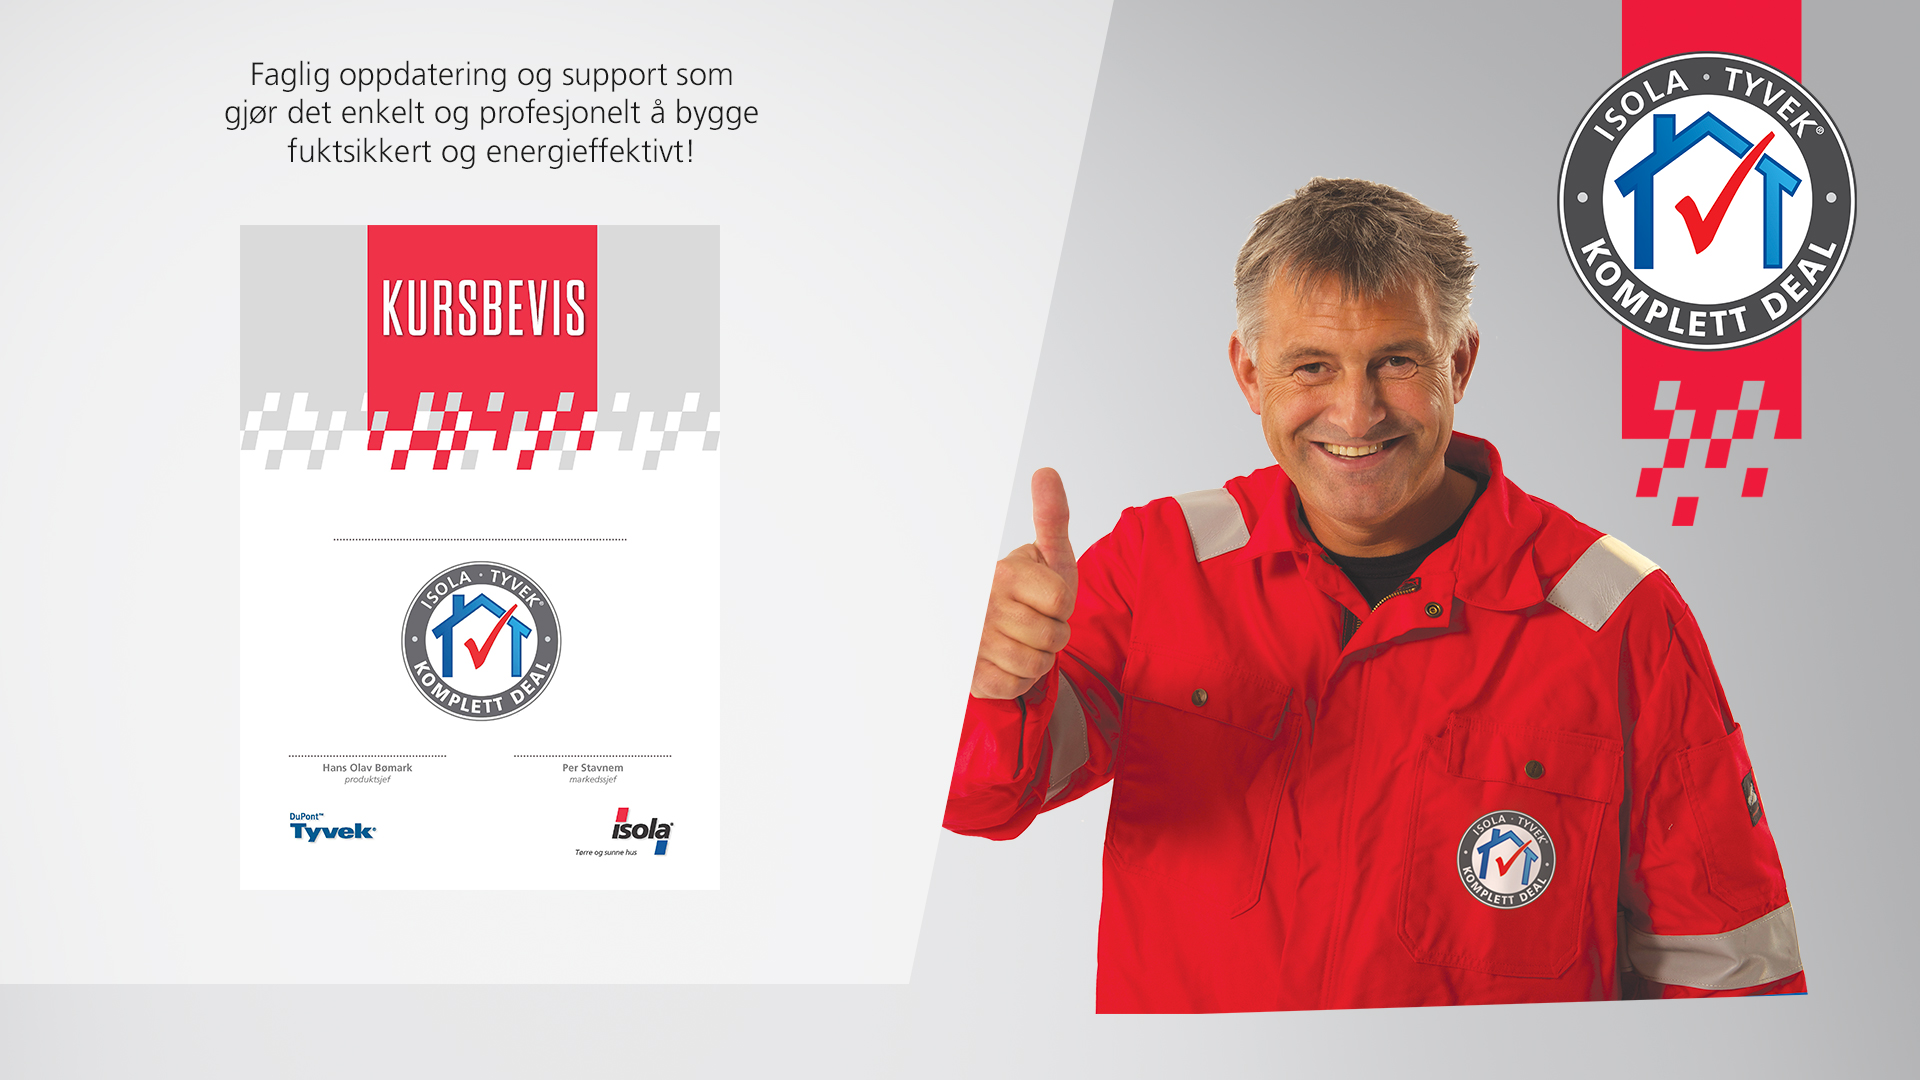
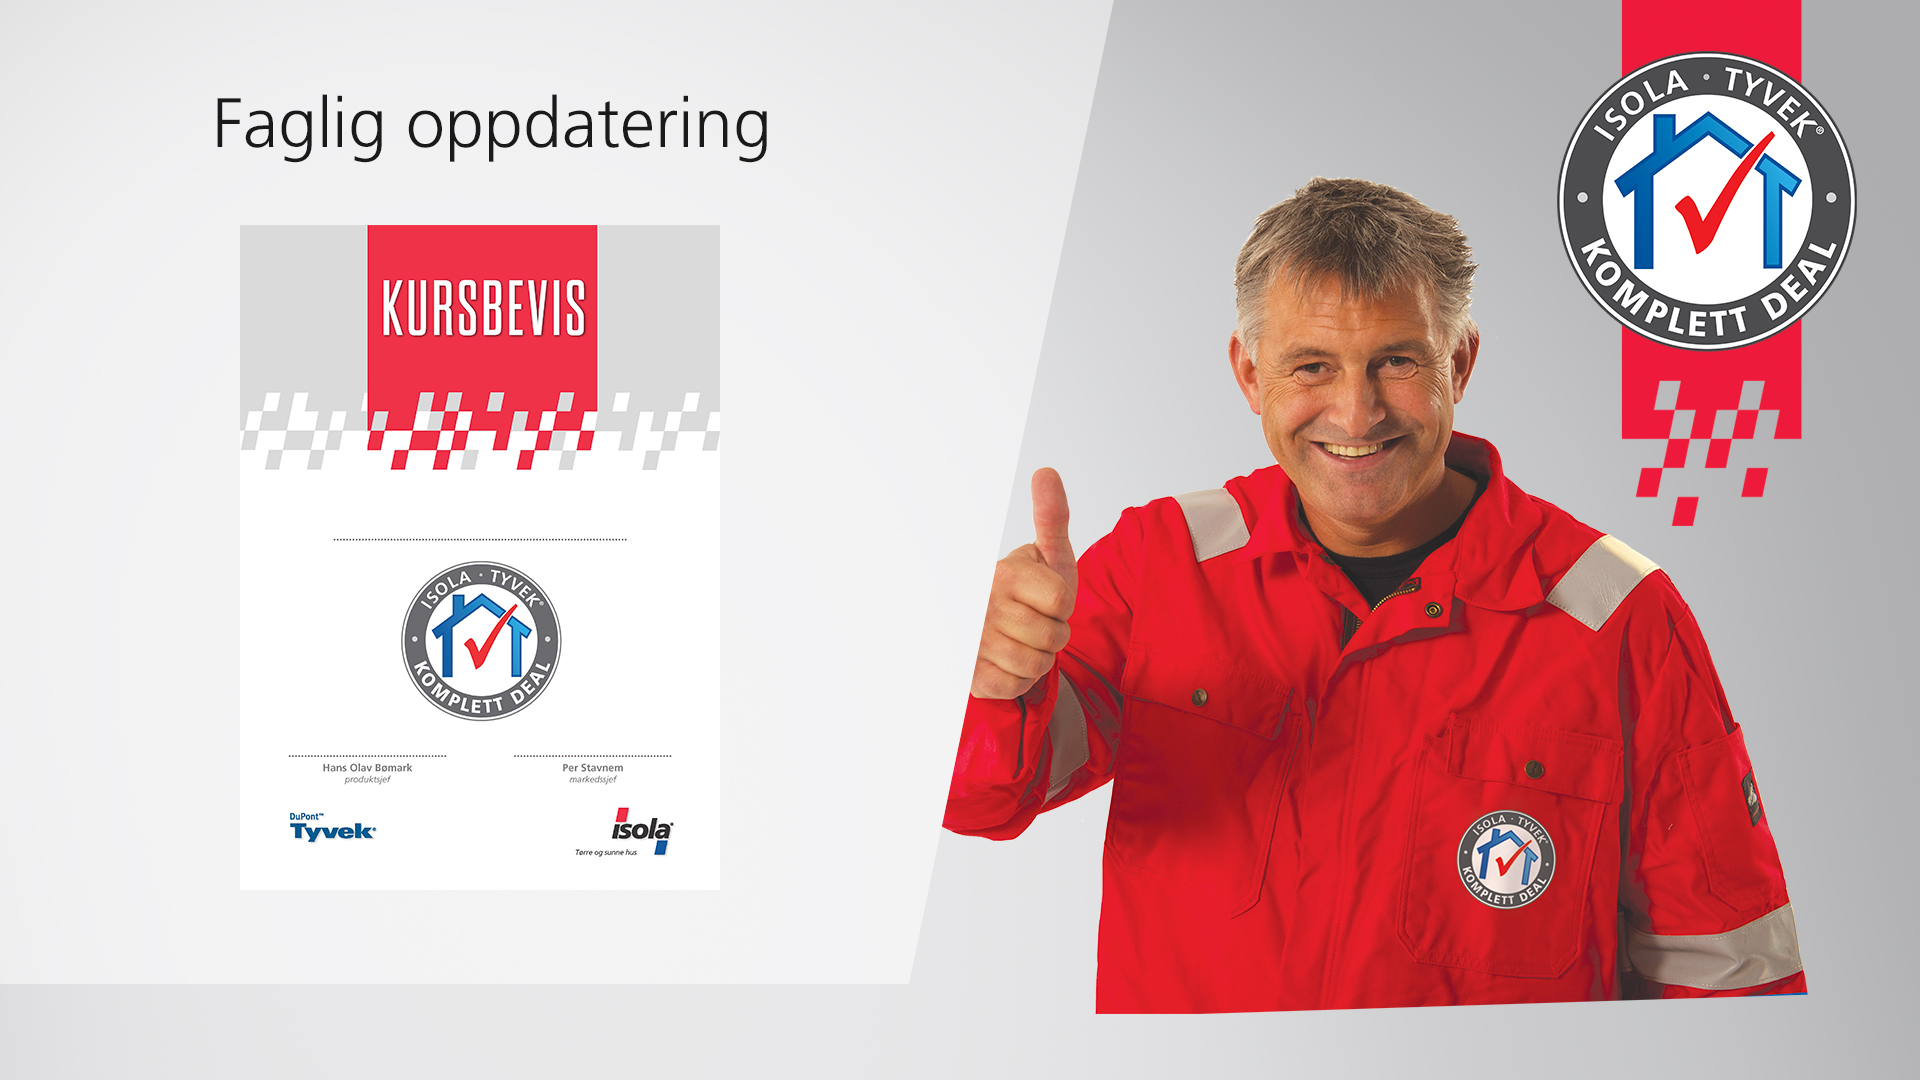
Diverse korrekturer Hans

Changed region(s): [[0.0938, 0.0611, 0.4062, 0.1528]]

diff --git a/presentation/nyheter.jsx b/presentation/nyheter.jsx
@@ -19,13 +19,14 @@ const images = {
     shingel: require("./nyheter/Shingel_1.jpg"),
     gronnetak: require("./nyheter/Gronnetak_1.jpg"),
     dampsperrer: require("./nyheter/Dampsperrer_1.jpg"),
+    takbelegg: require("./nyheter/Takbelegg_1.jpg"),
     rorosvinduet: require("./nyheter/Rorosvinduet_1.jpg"),
     zink: require("./nyheter/Zink_1.jpg"),
     tape: require("./nyheter/tape_1.jpg")
 };
 
  
-preloader([images.isod, images.kilrenne ,images.komplettdeal, images.softxtra, images.systemgodkjennig, images.gronnetak, images.dampsperrer, images.rorosvinduet, images.zink, images.tape]);
+preloader([images.isod, images.kilrenne ,images.komplettdeal, images.softxtra, images.systemgodkjennig, images.gronnetak, images.dampsperrer, images.rorosvinduet, images.takbelegg, images.zink, images.tape]);
 
 
    class News extends React.Component {
@@ -59,17 +60,18 @@ preloader([images.isod, images.kilrenne ,images.komplettdeal, images.softxtra, i
                       updatedSlide={this.updatedSlide.bind(this)}                      
 		                  transitionDuration={1000}>
 
-			              <Slide bgImage={images.isod } tickerText="Nytt underlagsbelegg med selvklebende omlegg" />
-			              <Slide bgImage={images.kilrenne } tickerText="Komplett system som forenkler håndverkers hverdag" />
-			              <Slide bgImage={images.komplettdeal } tickerText="Nytt og lønnsomt Isola-Tyvek proffkonsept" />
-			              <Slide bgImage={images.tape } tickerText="Ny klebesterk og fleksibel vindsperre tape til forsegling av detaljer" />
-			              <Slide bgImage={images.softxtra } tickerText="Ny generasjon vindsperre - xtra sterk - xtra monterinsvennlig" />
-			              <Slide bgImage={images.systemgodkjennig } tickerText="Først i landet med SINTEF Byggforsk systemgodkjenning" />
-			              <Slide bgImage={images.zink } tickerText="Monteringvennlig og komplett sortiment" />
-			              <Slide bgImage={images.shingel } tickerText="30 års garanti på produktet" />
-			              <Slide bgImage={images.gronnetak } tickerText="For fremtidens bymiljø" />
-			              <Slide bgImage={images.dampsperrer } tickerText="Smarte løsninger" />
-			              <Slide bgImage={images.rorosvinduet } tickerText="Nye aluminiumsbeklede vinduer fra Røros" />
+				      <Slide bgImage={images.isod } tickerText="Nytt underlagsbelegg med selvklebende omlegg - for skråtak ned til 6 graders takfall" />
+				      <Slide bgImage={images.kilrenne } tickerText="Komplett løsning for alle typer lektede skråtak - Effektivt system som forenkler proffens hverdag" />
+				      <Slide bgImage={images.komplettdeal } tickerText="Isola tilbyr nytt proffkonsept med komplette løsninger - Gir garantert tett og fuktsikkert bygg" />
+				      <Slide bgImage={images.softxtra } tickerText="Ny generasjon Soft vindsperre - Xtra sterk, Xtra fuktsikker og Xtra monterinsvennlig" />
+				      <Slide bgImage={images.systemgodkjennig } tickerText="Isola er først ute med SINTEF Byggforsk Teknisk Godkjenning av et komplett klimasystem" />
+				      <Slide bgImage={images.zink } tickerText="Isola styrker seg på takrenner og lanserer monteringvennlig og komplett zink-sortiment" />
+				      <Slide bgImage={images.tape } tickerText="Ny klebesterk og fleksibel vindsperre tape - Til forsegling av vindsperrer mot gjennomføringer og detaljer" />
+				      <Slide bgImage={images.takbelegg } tickerText="Asfalt takbelegg og membraner, produsert i Norge for norske værforhold" />
+				      <Slide bgImage={images.shingel } tickerText="30 års garanti på Isola Takshingel med ny og forbedret asfalt kvalitet" />
+				      <Slide bgImage={images.gronnetak } tickerText="Effektive løsninger som beskytter, drenerer og fordrøyer større mengder regnvann" />
+				      <Slide bgImage={images.dampsperrer } tickerText="Dampsperre med variabel vanndampmotstand - Sikkerhetsventil ved innestengt fukt" />
+				      <Slide bgImage={images.rorosvinduet } tickerText="Nye aluminiumsbekledde vinduer fra Røros - Moderne, solide og vedlikeholdsvennlige" />
 
                 </Deck>
             </div>

diff --git a/presentation/systemgodkjenning.jsx b/presentation/systemgodkjenning.jsx
@@ -17,10 +17,11 @@ const images = {
     rims: require("./systemgodkjenning/Systemgodkjenning_2_5_rims.jpg"),
     soft: require("./systemgodkjenning/Systemgodkjenning_2_6_1_soft.jpg"),
     vindu: require("./systemgodkjenning/Systemgodkjenning_2_7_vindu.jpg"),
-    tape: require("./systemgodkjenning/Systemgodkjenning_2_5_tape.jpg")
+    tape: require("./systemgodkjenning/Systemgodkjenning_2_5_tape.jpg"),
+    undertak: require("./systemgodkjenning/Systemgodkjenning_2_8_undertak.jpg")
 };
 
-preloader([images.svillemembran, images.flexwrap, images.takmansjett, images.rims, images.soft, images.tape, images.vindu]);
+preloader([images.svillemembran, images.flexwrap, images.takmansjett, images.rims, images.soft, images.tape, images.vindu, images.undertak]);
 
 
 class Images extends React.Component {
@@ -39,6 +40,7 @@ class Images extends React.Component {
 				    <Slide bgImage={images.soft} id="soft" />
 				    <Slide bgImage={images.tape} id="tape" />
 				    <Slide bgImage={images.vindu} id="vindu" />
+				    <Slide bgImage={images.undertak} id="undertak" />
 
                 </Deck>
             </div>

diff --git a/presentation/komplettdeal.jsx b/presentation/komplettdeal.jsx
@@ -29,9 +29,9 @@ class Master extends React.Component {
 
 		<Deck transition={[ "fade"]} progress="tabs" base="/komplettdeal/" transitionDuration={800}>
 		    <Slide  bgImage={images.komplettdeal} tab="Komplett deal"></Slide>
+		    <Slide  bgImage={images.systemgodkjenning} tab="Systemgodkjenning"></Slide>
 		    <Slide  bgImage={images.garanti} tab="Garanti"></Slide>
 		    <Slide  bgImage={images.faglig} tab="Faglig oppdatering"></Slide>
-		    <Slide  bgImage={images.systemgodkjenning} tab="Systemgodkjenning"></Slide>
 		</Deck>
 	    </div>
 	);

diff --git a/presentation/systemhus.jsx b/presentation/systemhus.jsx
@@ -20,6 +20,7 @@ const links = [
     {x:640, y:420, link:"/systemgodkjenning/rims"},
     {x:1250, y:620, link:"/vindsperrer/0"},
     {x:410, y:630, link:"/systemgodkjenning/tape"},
+    {x:1230, y:300, link:"/systemgodkjenning/undertak"},
     {x:840, y:740, link:"/systemgodkjenning/vindu"}
 ]; 
 
